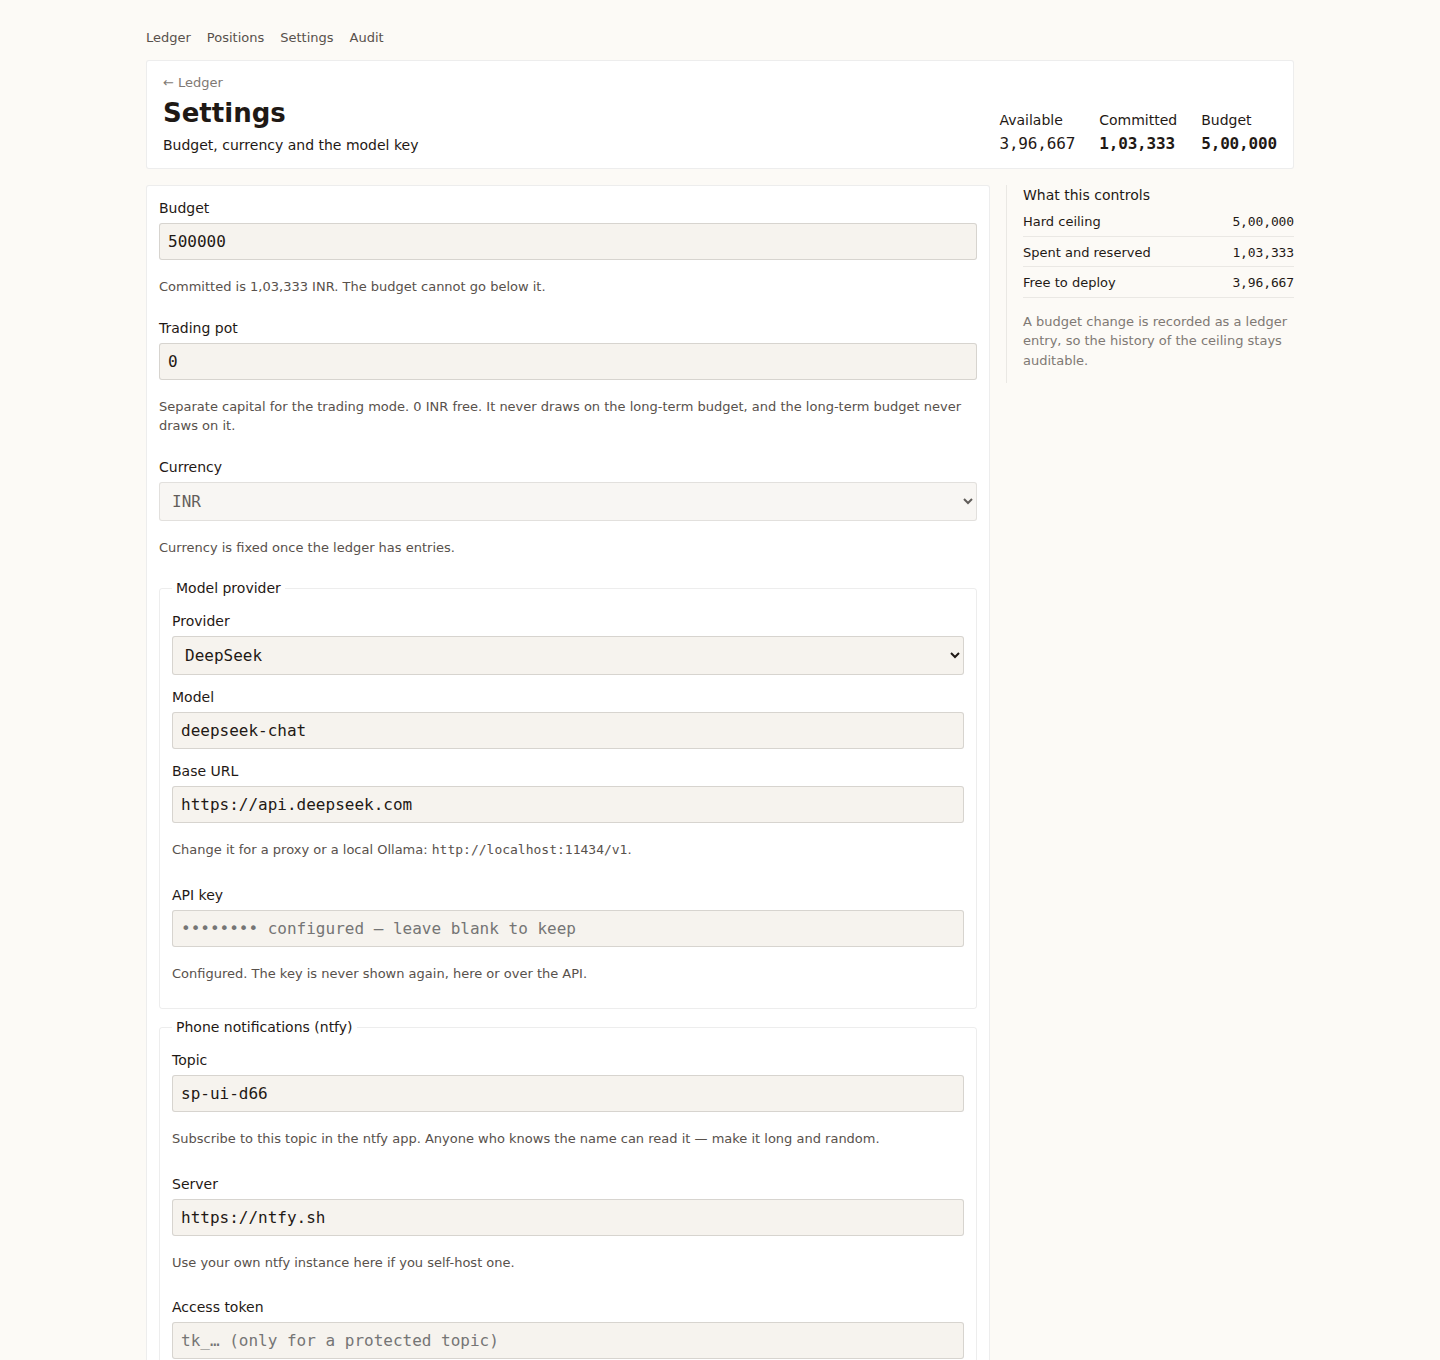
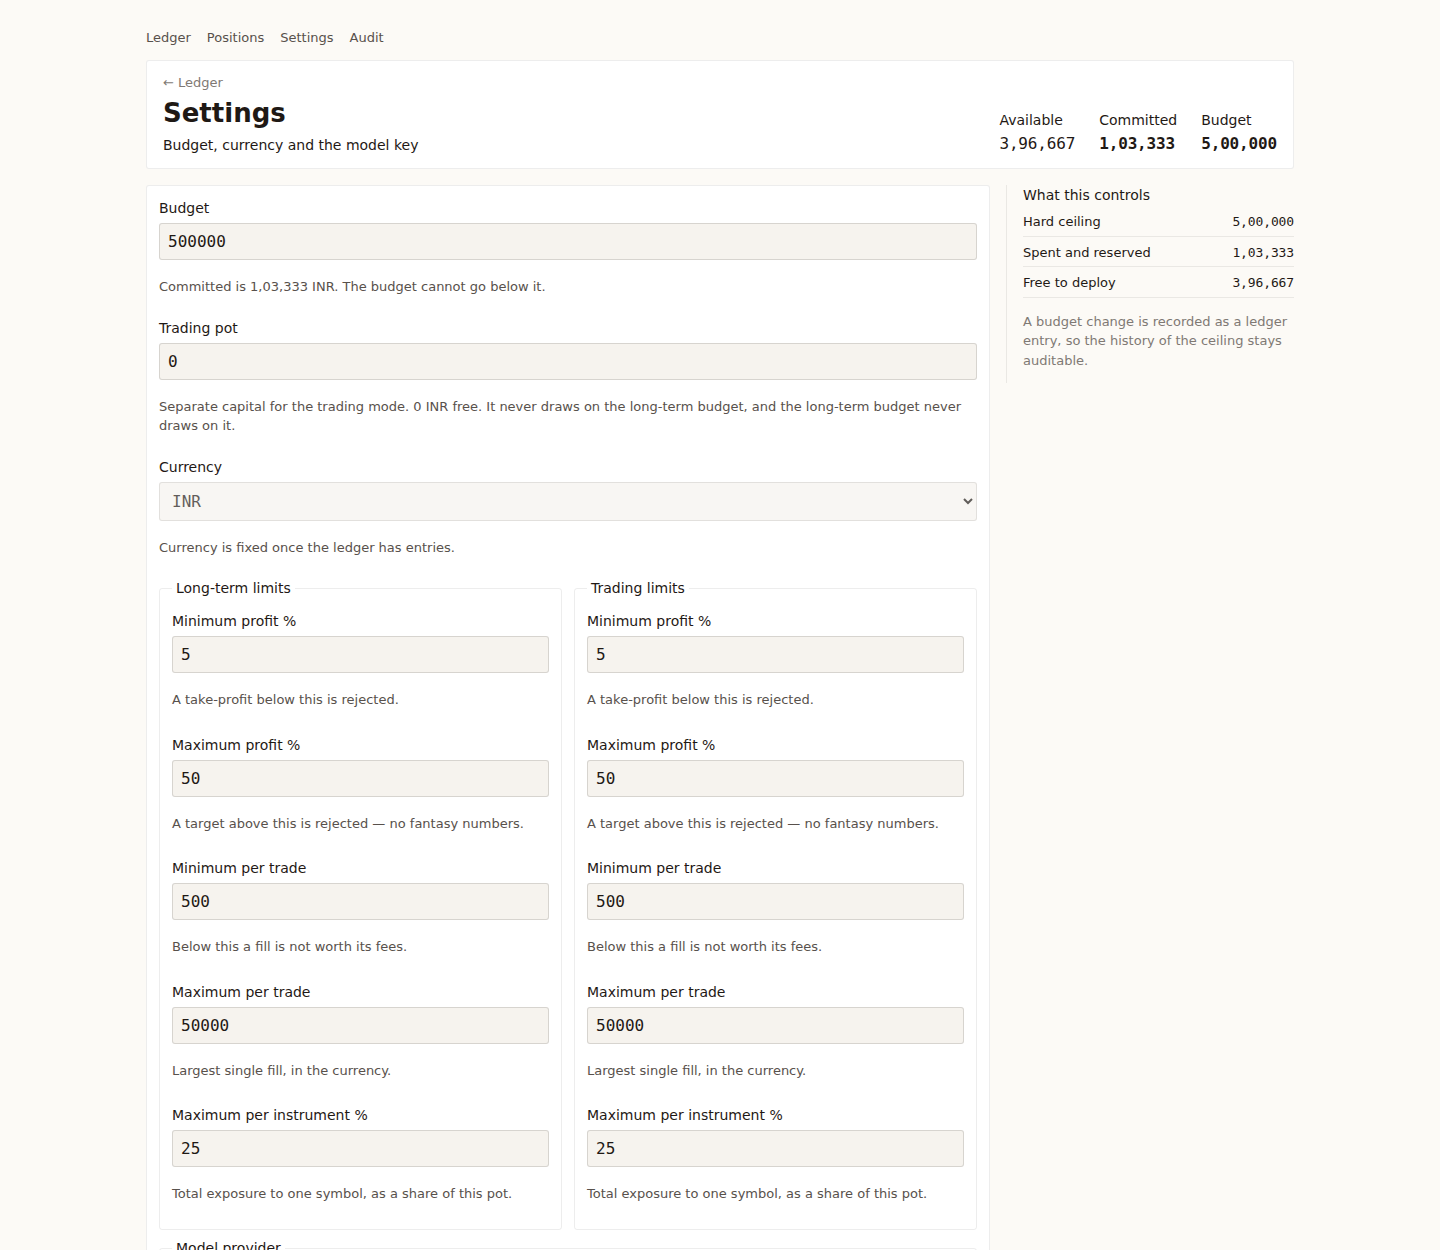
feat: risk limits side by side; refresh screenshots

diff --git a/web/src/pages/settings.ts b/web/src/pages/settings.ts
@@ -68,8 +68,10 @@ export function renderSettings(s: Settings): string {
               : "Locked permanently after the first recorded transaction."
           }</p>
         </div>
-        ${limitFields("long", "Long-term limits", s.limits_long)}
-        ${limitFields("trade", "Trading limits", s.limits_trade)}
+        <div class="limits-pair">
+          ${limitFields("long", "Long-term limits", s.limits_long)}
+          ${limitFields("trade", "Trading limits", s.limits_trade)}
+        </div>
 
         <fieldset class="field-group">
           <legend class="lbl">Model provider</legend>

diff --git a/web/src/app.css b/web/src/app.css
@@ -457,3 +457,11 @@
     padding: var(--space-3); display: grid; gap: var(--space-3); margin: 0; }
   .field-group legend { padding-inline: var(--space-1); }
 }
+
+@layer components {
+  /* The two pots are compared, not read in sequence: side by side on any real screen. */
+  .limits-pair { display: grid; grid-template-columns: 1fr 1fr; gap: var(--space-3); }
+  @media (max-width: 900px) {
+    .limits-pair { grid-template-columns: 1fr; }
+  }
+}

diff --git a/README.md b/README.md
@@ -64,9 +64,10 @@ decision above it is the model's, and the validator — not either of them — h
 
 ![Trading](docs/screenshots/trading.png)
 
-**Settings** — budget, currency, the second pot, the model provider (DeepSeek, OpenAI, Gemini or
-any OpenAI-compatible endpoint) with its key, and the ntfy push channel with a test button. Keys
-are write-only: the API reports only whether one is configured.
+**Settings** — budget and currency, then the two pots' risk limits side by side so they can be
+compared, then the model provider (DeepSeek, OpenAI, Gemini or any OpenAI-compatible endpoint)
+with its key, and the ntfy push channel with a test button. Keys are write-only: the API reports
+only whether one is configured.
 
 ![Settings](docs/screenshots/settings.png)
 
